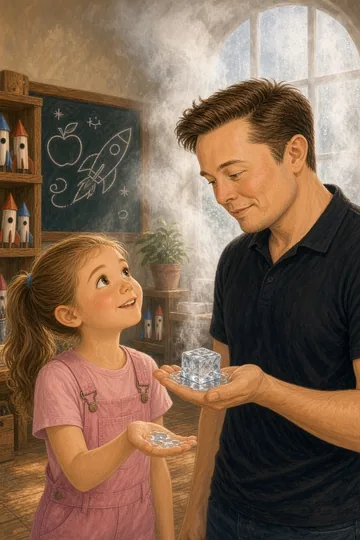
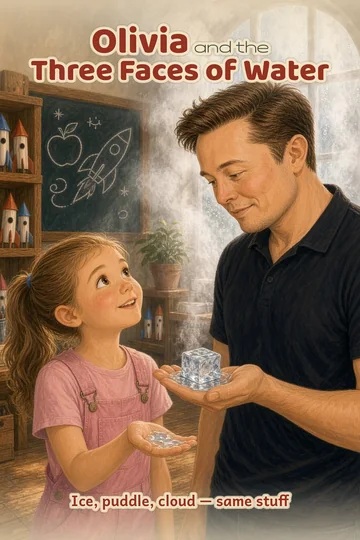
Letter the Elon & Olivia physics covers with exact titles.
The unique paintings had no type. Composite the real book names and
subtitles in code so the shelf spines and opened covers can be read.

Changed region(s): [[0.0, 0.0, 1.0, 0.1778], [0.0, 0.8889, 1.0, 1.0]]

diff --git a/scripts/letter-elon-covers.py b/scripts/letter-elon-covers.py
@@ -1,0 +1,259 @@
+#!/usr/bin/env python3
+"""Composite exact picture-book titles onto the Elon & Olivia physics covers."""
+
+from __future__ import annotations
+
+import urllib.request
+from pathlib import Path
+
+from PIL import Image, ImageDraw, ImageFilter, ImageFont
+
+ROOT = Path(__file__).resolve().parents[1]
+FONT_DIR = Path("/tmp/cover-fonts")
+ART = ROOT / "public/books"
+
+RUST = (148, 50, 34)
+TEAL = (58, 74, 70)
+CREAM = (244, 228, 196)
+INK = (72, 38, 28)
+
+BOOKS = [
+    {
+        "id": "elon-heat-jiggle",
+        "name": "Olivia",
+        "rest": "Quiet Fire",
+        "subtitle": "Heat is a tiny dance",
+    },
+    {
+        "id": "elon-force-roll",
+        "name": "Olivia",
+        "rest": "Stubborn Cart",
+        "subtitle": "Things keep doing what they were doing",
+    },
+    {
+        "id": "elon-float-boat",
+        "name": "Olivia",
+        "rest": "Floating Rock",
+        "subtitle": "Water can hold you up",
+    },
+    {
+        "id": "elon-air-hug",
+        "name": "Olivia",
+        "rest": "Invisible Ocean",
+        "subtitle": "We live at the bottom of a sea of air",
+    },
+    {
+        "id": "elon-ice-steam",
+        "name": "Olivia",
+        "rest": "Three Faces of Water",
+        "subtitle": "Ice, puddle, cloud — same stuff",
+    },
+    {
+        "id": "elon-friction-grip",
+        "name": "Olivia",
+        "rest": "Sticky Floor",
+        "subtitle": "Rough things hold on",
+    },
+    {
+        "id": "elon-lever-lift",
+        "name": "Olivia",
+        "rest": "Long Stick",
+        "subtitle": "A stick can borrow strength",
+    },
+    {
+        "id": "elon-energy-spring",
+        "name": "Olivia",
+        "rest": "Hidden Jump",
+        "subtitle": "Energy can hide, then run",
+    },
+    {
+        "id": "elon-balance-tip",
+        "name": "Olivia",
+        "rest": "Wobbly Ruler",
+        "subtitle": "Heavy middles stand tall",
+    },
+    {
+        "id": "elon-sky-blue",
+        "name": "Olivia",
+        "rest": "Painted Sky",
+        "subtitle": "Air is a quiet prism",
+    },
+]
+
+
+def ensure_fonts() -> None:
+    FONT_DIR.mkdir(parents=True, exist_ok=True)
+    files = {
+        "Baloo2.ttf": "https://github.com/google/fonts/raw/main/ofl/baloo2/Baloo2%5Bwght%5D.ttf",
+        "Fredoka.ttf": "https://github.com/google/fonts/raw/main/ofl/fredoka/Fredoka%5Bwdth%2Cwght%5D.ttf",
+        "Andika-Bold.ttf": "https://github.com/google/fonts/raw/main/ofl/andika/Andika-Bold.ttf",
+    }
+    for name, url in files.items():
+        dest = FONT_DIR / name
+        if dest.exists() and dest.stat().st_size > 10000:
+            continue
+        urllib.request.urlretrieve(url, dest)
+
+
+def font_baloo(size: int) -> ImageFont.FreeTypeFont:
+    f = ImageFont.truetype(str(FONT_DIR / "Baloo2.ttf"), size)
+    f.set_variation_by_axes([800])
+    return f
+
+
+def font_fredoka(size: int) -> ImageFont.FreeTypeFont:
+    f = ImageFont.truetype(str(FONT_DIR / "Fredoka.ttf"), size)
+    f.set_variation_by_axes([100, 700])
+    return f
+
+
+def font_andika(size: int) -> ImageFont.FreeTypeFont:
+    return ImageFont.truetype(str(FONT_DIR / "Andika-Bold.ttf"), size)
+
+
+def measure(draw: ImageDraw.ImageDraw, text: str, font: ImageFont.FreeTypeFont) -> tuple[int, int]:
+    x0, y0, x1, y1 = draw.textbbox((0, 0), text, font=font)
+    return x1 - x0, y1 - y0
+
+
+def fit_font(draw: ImageDraw.ImageDraw, text: str, max_width: int, start: int, maker) -> ImageFont.FreeTypeFont:
+    size = start
+    while size > 36:
+        font = maker(size)
+        w, _ = measure(draw, text, font)
+        if w <= max_width:
+            return font
+        size -= 2
+    return maker(36)
+
+
+def wrap_subtitle(draw: ImageDraw.ImageDraw, text: str, font: ImageFont.FreeTypeFont, max_width: int) -> list[str]:
+    w, _ = measure(draw, text, font)
+    if w <= max_width:
+        return [text]
+    words = text.split()
+    lines: list[str] = []
+    cur = words[0]
+    for word in words[1:]:
+        trial = f"{cur} {word}"
+        tw, _ = measure(draw, trial, font)
+        if tw <= max_width:
+            cur = trial
+        else:
+            lines.append(cur)
+            cur = word
+    lines.append(cur)
+    return lines
+
+
+def cream_washes(size: tuple[int, int]) -> Image.Image:
+    w, h = size
+    overlay = Image.new("RGBA", size, (0, 0, 0, 0))
+    pix = overlay.load()
+    top = int(h * 0.24)
+    bot = int(h * 0.12)
+    for y in range(top):
+        t = y / max(1, top - 1)
+        # painted parchment that fades into the scene
+        alpha = int(185 * (1 - t) ** 1.55)
+        for x in range(w):
+            pix[x, y] = (*CREAM, alpha)
+    for i in range(bot):
+        y = h - bot + i
+        t = i / max(1, bot - 1)
+        alpha = int(175 * t ** 1.25)
+        for x in range(w):
+            pix[x, y] = (*CREAM, alpha)
+    return overlay.filter(ImageFilter.GaussianBlur(radius=12))
+
+
+def draw_text(
+    canvas: Image.Image,
+    text: str,
+    xy: tuple[float, float],
+    font: ImageFont.FreeTypeFont,
+    fill: tuple[int, int, int],
+    anchor: str = "lt",
+) -> None:
+    # cream halo, then a soft ink shadow, then the letter
+    shadow = Image.new("RGBA", canvas.size, (0, 0, 0, 0))
+    sd = ImageDraw.Draw(shadow)
+    sd.text(xy, text, font=font, fill=(*INK, 90), anchor=anchor, stroke_width=10, stroke_fill=(*CREAM, 220))
+    canvas.alpha_composite(shadow.filter(ImageFilter.GaussianBlur(radius=1.2)))
+    draw = ImageDraw.Draw(canvas)
+    draw.text(
+        xy,
+        text,
+        font=font,
+        fill=fill + (255,),
+        anchor=anchor,
+        stroke_width=4,
+        stroke_fill=CREAM + (255,),
+    )
+
+
+def letter_cover(src: Path, dest_jpg: Path, dest_webp: Path, book: dict) -> None:
+    base = Image.open(src).convert("RGBA")
+    w, h = base.size
+    painted = Image.alpha_composite(base, cream_washes((w, h)))
+    draw = ImageDraw.Draw(painted)
+    cx = w / 2
+    max_w = int(w * 0.88)
+
+    name_font = fit_font(draw, book["name"], int(w * 0.44), 124, font_baloo)
+    conn_font = font_fredoka(max(42, name_font.size // 2 - 6))
+    gap = 16
+    name_w, _ = measure(draw, book["name"], name_font)
+    conn_w, _ = measure(draw, "and the", conn_font)
+    line1_w = name_w + gap + conn_w
+    x0 = cx - line1_w / 2
+    y1 = int(h * 0.048)
+    draw_text(painted, book["name"], (x0, y1), name_font, RUST, anchor="lt")
+    draw_text(
+        painted,
+        "and the",
+        (x0 + name_w + gap, y1 + name_font.size * 0.40),
+        conn_font,
+        TEAL,
+        anchor="lt",
+    )
+
+    rest_font = fit_font(draw, book["rest"], max_w, 104, font_baloo)
+    y2 = y1 + int(name_font.size * 0.88)
+    draw_text(painted, book["rest"], (cx, y2), rest_font, RUST, anchor="mt")
+
+    sub_font = fit_font(draw, book["subtitle"], max_w, 48, font_andika)
+    lines = wrap_subtitle(draw, book["subtitle"], sub_font, max_w)
+    line_h = int(sub_font.size * 1.12)
+    block_h = line_h * len(lines)
+    y_sub = h - int(h * 0.055) - block_h
+    for i, line in enumerate(lines):
+        draw_text(painted, line, (cx, y_sub + i * line_h), sub_font, RUST, anchor="mt")
+
+    rgb = painted.convert("RGB")
+    dest_jpg.parent.mkdir(parents=True, exist_ok=True)
+    rgb.save(dest_jpg, "JPEG", quality=92, optimize=True, subsampling=0)
+    shelf = rgb.resize((360, 540), Image.Resampling.LANCZOS)
+    shelf.save(dest_webp, "WEBP", quality=84, method=6)
+    print(f"wrote {dest_jpg} and {dest_webp.name}")
+
+
+def main() -> None:
+    ensure_fonts()
+    untitled = Path("/tmp/untitled-elon-covers")
+    for book in BOOKS:
+        src = untitled / f"{book['id']}.jpg"
+        if not src.exists():
+            src = ART / book["id"] / "art" / "cover.jpg"
+        if not src.exists():
+            raise SystemExit(f"missing {src}")
+        letter_cover(
+            src,
+            ART / book["id"] / "art" / "cover.jpg",
+            ART / book["id"] / "art" / "cover-shelf.webp",
+            book,
+        )
+
+
+if __name__ == "__main__":
+    main()
